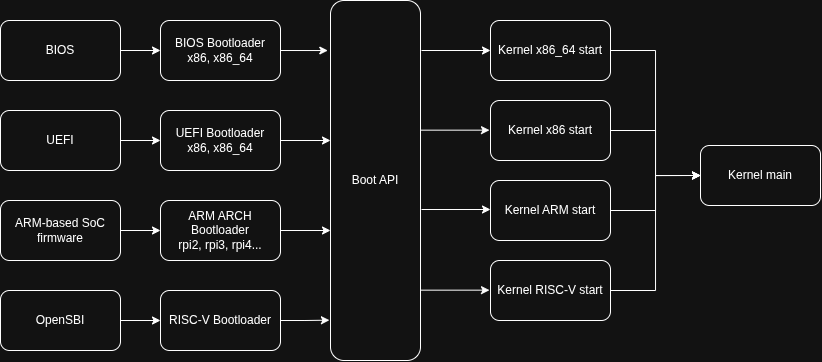
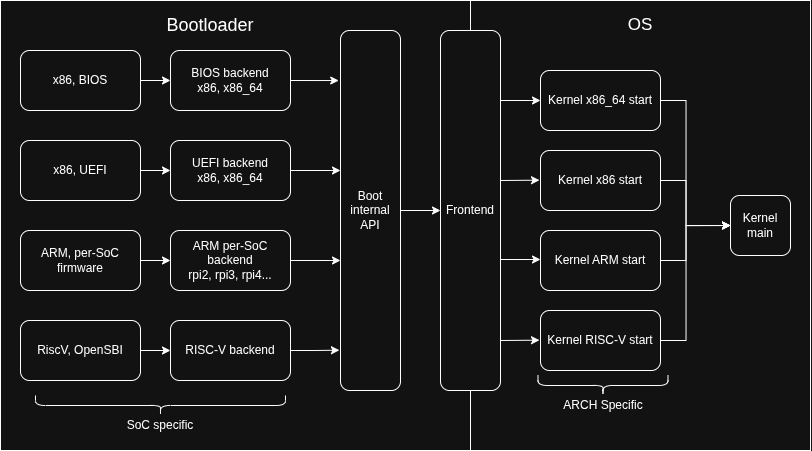
todo: improved bootloader POC and added driver model ideas

diff --git a/include/mm/paging.h b/include/mm/paging.h
@@ -21,9 +21,9 @@
 //
 // The virtual address bit breakdown is:
 //
-//  63       48 47    39 38    30 29    21 20    12 11      0
-//  [  unused  ] [pml4] [ pdpt ] [  pd  ] [  pt  ] [ offset ]
-//                 9bit   9bit     9bit     9bit      12bit
+//  63       48 47      39 38    30 29    21 20    12 11      0
+//  [  unused  ] [ pml4 ] [ pdpt ] [  pd  ] [  pt  ] [ offset ]
+//                  9bit    9bit     9bit     9bit      12bit
 //
 
 #include <kernel/macros.h>

diff --git a/TODO.md b/TODO.md
@@ -4,22 +4,26 @@ Future plans for the operating system.
 
 ## Bootloader
 
-I want to port the operating system to multiple architectures. It all
-starts from the bootloader, I have to be able to boot from different
-environments. Currently, only the x86_64 with BIOS boot architecture
-is supported. To support more systems, I need to create a few
-abstractions:
+I want to port the operating system to multiple architectures. It all starts
+from the bootloader, I have to be able to boot from different environments.
+Currently, only the x86_64 with BIOS boot architecture is supported. To support
+more architectures and firmwares, I need to create a few abstractions:
 
-- Boot API: this is the API that the bootloader exposes to the
-  kernel. Its implementation depends on the platform, but the kernel
-  should expect to be loaded and executed in a known state. I could
-  look at the Multiboot specification for inspiration.
-- Kernel ARCH start: after the bootloader, a platform dependent
-  initialization phase should start. This will initialize the key
-  drivers and buses based on the architecture
-- Generic kernel start: now the cross-platform kernel logic can start,
-  and it can use cross-platform abstractions over the hardware such as
-  for memory management and interrupts.
+- backend: the code that is run right after the firmware. The backend is
+  expected to setup the CPU to a well defined state in the bootloader
+- bootloader intermediate API: an internal API used to match backend and
+  frontend
+- frontend: after the backend, the frontend sets up the CPU in a well defined
+  state for the OS. This is the API that is presented to the OS, and it must be
+  architecture specific.
+
+After the bootloader, the OS would have the following abstractions:
+
+- Kernel ARCH start: an arch dependent initialization phase (setup proper
+  interrupts, paging...)
+- Generic kernel start: now the cross-platform kernel logic can start, and it
+  can use cross-platform abstractions over the hardware such as for memory
+  management and interrupts.
 
 Here is an high-level overview of the boot process:
 
@@ -28,37 +32,58 @@ Here is an high-level overview of the boot process:
 Todo, in order:
 
 - have a well-defined bootloader to kernel API
-- start with UEFI boot in x86_64
-- then support BIOS x86 32 bit
+- have a well-defined intermediate bootloader API
+- port the current bootloader to the new APIs
+- have an uefi backed
+
+An advanced topic would be to have the OS choose which frontend to use (by
+setting some data in a specific section for example, but this would require the
+kernel to be in ELF and the bootloader to know about ELF format).
+
+## Driver Model
+
+One of the most important framework in the kernel is the driver model. We need:
+
+- device class abstraction: each device has some metadata (such as name) and it
+  belongs to a class, which defines different operations (`devclass_ops`).
+  Example of classes are busses.
+- device abstraction: just data about a device (bus, ID, name). It is the
+  equivalent to the device tree represented as a C api. It may contain hardcoded
+  devices and probed devices during runtime, and it can be added or removed, so
+  it must be dynamic. Every device class should manage their devices.
+- driver abstraction: a driver has some id data and belongs to a class, it
+  implements its operations. A driver may be added or removed during runtime so
+  there must exist a dynamic structure of drivers managed by the device class.
+
+The device looks at its devices and tries to match a driver (calling the
+driver's `probe` function.
 
 ## Scheduler
 
-The current scheduler is a simple preentive Round Robin with a fixed
-time "quantum", meaning that each process is divided equally
-time-wise. A good addition would be to introduce priority queues with
-some kind of penalty mechanism to avoid starvation, meaning that tasks
-with higher priority will be executed first, then the ones with lower
-priority, but if a process with high priority is taking too much time,
-then the scheduler will go to the lower ones anyway (avoiding
-starvation).
+The current scheduler is a simple preentive Round Robin with a fixed time
+"quantum", meaning that each process is divided equally time-wise. A good
+addition would be to introduce priority queues with some kind of penalty
+mechanism to avoid starvation, meaning that tasks with higher priority will be
+executed first, then the ones with lower priority, but if a process with high
+priority is taking too much time, then the scheduler will go to the lower ones
+anyway (avoiding starvation).
 
-Another design that takes into account real time constraints would
-also be nice to have.
+Another design that takes into account real time constraints would also be nice
+to have.
 
 ## Kernel
 
-- interrupt management framework: you should be able to mask, register
-  and redirect interrupts in a driver-independent way
+- interrupt API: you should be able to mask, register and redirect interrupts in
+  an arch-independent way
+  - have a software interrupt vector
 - general device model: bus, device, driver abstractions
-- vfs: the VFS interface is already implemented, now a filesystem that
-  uses it should be implemented too, like FAT32.
+- vfs: the VFS interface is already implemented, now a filesystem that uses it
+  should be implemented too, like FAT32.
 - testing framework
-- shell: implement a small programming language like BASIC or Bash in
-  the shell
+- shell: implement a small programming language like BASIC or Bash in the shell
 - syscalls
 - userspace
-- have a `menuconfig`-like kernel configuration system
-- configuration system, like Kconfig
+- have a `menuconfig`-like and `Kconfig`-like kernel configuration system
 - use multiple cores eventually
 
 ## Drivers
@@ -70,10 +95,12 @@ also be nice to have.
 
 ## Chores
 
-- big style change followinf Linux's style
+- standardized error numbers
+- big style change following Linux's style. Refactor lots of code, no more than
+  3 intentaions for example.
 - add macro BIT(x) for (1 << x), and BIT_ULL(x) ((u64_t 1) << x)
 - read-write lock
-- power off: surprisingly, doing this right is a bit more complicated
-  than you think. It may require some power management infrastructure.
-- develop a custom emulated device in qemu, such as a temperature
-  sensor using i2c
+- power off: surprisingly, doing this right is a bit more complicated than you
+  think. It may require some power management infrastructure.
+- develop a custom emulated device in qemu, such as a temperature sensor using
+  i2c